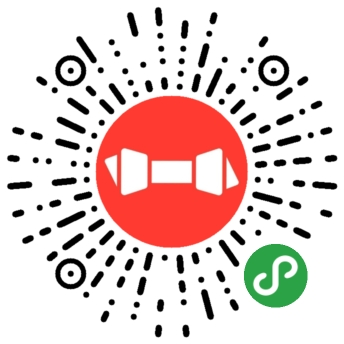
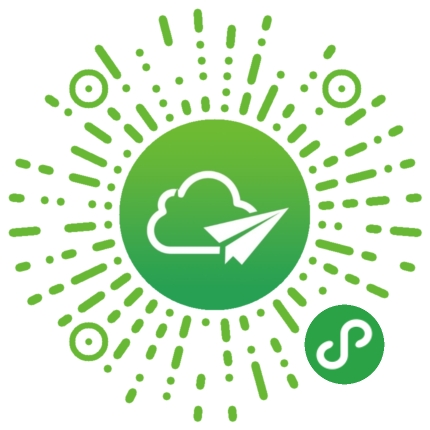
更名

diff --git a/docs/zh-cn/README.md b/docs/zh-cn/README.md
@@ -40,7 +40,7 @@
 
 
 ## 安装
-微信搜索“Bark助手” 或扫描下方小程序码<br>
+微信搜索“iGot” 或扫描下方小程序码<br>
   ![Snap](../images/gh_38cb1ca0be75_344.jpg)
 
 ## 绑定社交账号
@@ -75,12 +75,19 @@
  ![Snap](../images/bindEmail.png)
 
 
-### 授权微信
+### <del>授权微信</del>
+
+>! 该功能已下线，请使用客户端绑定微信公众号推送
+
 > 默认授权为`关闭`
 > 该模式下部分推送可能会丢失或无法送达
 
 1. 打开Bark，进入微信授权页
 2. 打开授权或取消授权
+
+### 授权微信
+
+> 需下载iGot桌面客户端  小程序内暂不支持绑定
 
 ## 使用
 > 允许用户通过简单的api接口进行推送，接口基本继承Bark内接口。对多种推送模式做了一些扩展 <br >
@@ -114,7 +121,9 @@
 
 > 扩展参数
 
-wechat： 指定微信发送 `wechat=1` <br >
+已取消
+
+<del> wechat： 指定微信发送 `wechat=1` </del>
 
 
 
@@ -132,13 +141,17 @@ wechat： 指定微信发送 `wechat=1` <br >
 
 > Q2: 推送方式可以被指定么
 
-* 仅微信推送可以通过参数指定，且第三方授权应用不被允许
+* <del>仅微信推送可以通过参数指定，且第三方授权应用不被允许</del>
+
+> 开放所有推送方式，暂时不支持指定推送方式
 
 > Q3: 推送有顺序么？可以指定么
 
-* 推送顺序为尝试`Bark`，无效转`邮件`。其中微信不参与推送顺序尝试
+* 推送顺序为尝试`Bark`，无效转`邮件`，最后是`微信`。
 
-* 暂时不可以指定，系统默认
+* <del>暂时不可以指定，系统默认</del>
+
+* 桌面客户端允许指定推送顺序，小程序暂不支持
 
 ### 授权相关
 
@@ -146,33 +159,33 @@ wechat： 指定微信发送 `wechat=1` <br >
 
 * 您可以选择对指定授权应用`关闭提醒`或`取消授权` 
 
-!> Bark助手API推送将通过Bark助手发出。 关闭Bark助手提醒，将无法收到通过上面API推送的信息
+!> API推送将通过iGot发出。 关闭iGot提醒，将无法收到通过上面API推送的信息
 
 > Q2: 关闭提醒和取消授权有什么区别
 
-* 关闭提醒：将不通过Bark或邮件推送，但仍会记录在Bark助手历史记录内。随时可以查看
+* 关闭提醒：将不通过Bark或邮件推送，但仍会记录在iGot历史记录内。随时可以查看
 
 * 取消授权：授权应用将无法向您推送信息
 
 
-# iGot 客户端 :id=iGot-client
+# iGot 桌面客户端 :id=iGot-client
 
-> iGot客户端通过下方开放接口实现
+> iGot桌面客户端通过下方开放接口实现
 
 ## 下载
 
+![Snap](../images/qqGroup.jpeg)
+
 ### Mac 客户端
 
-[ 内测中 ， 即将与大家见面 ]
+网盘下载：[点击下载](https://pan.baidu.com/s/1rAiqPOeu6-Bt_7d8qTeEtQ)
 
 参与内测请扫码加入QQ群
-
-![Snap](../images/qqGroup.jpeg)
 
 
 ### windows 客户端
 
-[ 规划中 ]
+网盘下载：[点击下载](https://pan.baidu.com/s/1n0jsnVyt9kXjBr_Sp8Ffkw)
 
 
 
@@ -212,7 +225,7 @@ wechat： 指定微信发送 `wechat=1` <br >
     appId: 'wx74db71d8a9e3b699',
     path: '/pages/bind/app',
     extraData: {
-      appName: 'Bark Helper',    // 必填，修改为您当前小程序名称
+      appName: '',    // 必填，修改为您当前小程序名称
       openid: ''    // 必填，修改为当前用户的openid
     },
     envVersion: 'release',
@@ -586,12 +599,12 @@ wechat： 指定微信发送 `wechat=1` <br >
         "automaticallyCopy": 1,  // 自动复制
         "copyText": "",  // 自动复制文本
         "title": "感谢您的试用",  //  标题
-        "content": "Bark助手是一款集app、邮箱、微信等多种途径的推送工具。支持订阅推送、api推送、手动推送；发挥您的创造力，用它来及时掌握更多信息。点击链接获取使用教程",    //  正文
+        "content": "iGot是一款集公众号、邮箱、APP提醒等多种形式的聚合推送工具，一行代码接入系统，轻松实现状态监听、信息接收。支持订阅推送、api推送、手动推送；发挥您的创造力，用它来及时掌握更多信息。点击链接获取使用教程，桌面客户端下载及更多交流可加入QQ群 「 909540238 」",    //  正文
         "url": "https://wahao.github.io/Bark-MP-helper/#/zh-cn/"  //  超链接 url
       },
       "mode": "小程序",  //  推送通过何种方式送达
       "read": true,   //  是否已读
-      "app": "Bark助手",  //  推送方主体  应用名 
+      "app": "iGot聚合推送",  //  推送方主体  应用名 
       "createTime": "2019-11-29T08:44:43.430Z"  // 推送时间
     }],
     "count": 1   //  消息条数
@@ -622,12 +635,12 @@ wechat： 指定微信发送 `wechat=1` <br >
         "automaticallyCopy": 1,  // 自动复制
         "copyText": "",  // 自动复制文本
         "title": "感谢您的试用",  //  标题
-        "content": "Bark助手是一款集app、邮箱、微信等多种途径的推送工具。支持订阅推送、api推送、手动推送；发挥您的创造力，用它来及时掌握更多信息。点击链接获取使用教程",    //  正文
+        "content": "iGot是一款集公众号、邮箱、APP提醒等多种形式的聚合推送工具，一行代码接入系统，轻松实现状态监听、信息接收。支持订阅推送、api推送、手动推送；发挥您的创造力，用它来及时掌握更多信息。点击链接获取使用教程，桌面客户端下载及更多交流可加入QQ群 「 909540238 」",    //  正文
         "url": "https://wahao.github.io/Bark-MP-helper/#/zh-cn/"  //  超链接 url
       },
       "mode": "小程序",  //  推送通过何种方式送达
       "read": true,   //  是否已读
-      "app": "Bark助手",  //  推送方主体  应用名 
+      "app": "iGot聚合推送",  //  推送方主体  应用名 
       "createTime": "2019-11-29T08:44:43.430Z"  // 推送时间
     }
   },
@@ -672,7 +685,7 @@ wechat： 指定微信发送 `wechat=1` <br >
     "relates": [{
       "id": "5de0da7aaec09e401a13e384",    //  授权关系  id
       "allow": true,   //  是否启用强推送
-      "app": "Bark助手"  // 应用名
+      "app": "iGot聚合推送"  // 应用名
     }],
     "count": 1
   },
@@ -956,6 +969,14 @@ wechat： 指定微信发送 `wechat=1` <br >
 * 支持修改和管理联系人 （回归1.0.7系列版本号升级）
 
 # 升级日志
+
+
+## v1.0.10 (2019-12-20)  🎉🎉🎉
+
+* 多端同步更名 "iGot"  🎉🎉🎉🎉
+* 发布 window & Mac 桌面客户端  🎉🎉🎉🎉
+* 桌面客户端支持绑定微信公众号推送、自定义推送顺序 ； 小程序端即将支持
+* 小程序端增加信息流查看，消息浏览一步直达
 
 ## v1.0.7.3 (2019-11-16)
 

diff --git a/docs/README.md b/docs/README.md
@@ -6,7 +6,7 @@ The applet aggregates APP, email, and WeChat, and one line of code is easily pus
 > This part of the document is for ordinary users
 
 ## install
-Wechat searches for "Bark助手" or scans the miniprogram code below<br>
+Wechat searches for "iGot" or scans the miniprogram code below<br>
   ![Snap](./images/gh_38cb1ca0be75_344.jpg)
 
 ## Binding social accounts

diff --git a/docs/cover.md b/docs/cover.md
@@ -1,7 +1,7 @@
 
 <img width="100" height="100" src="images/WechatIMG998.gif"/><br/>
 
-# Bark assistant 
+# iGot
 
 > A polymerization message push management tool
 

diff --git a/docs/zh-cn/cover.md b/docs/zh-cn/cover.md
@@ -1,7 +1,7 @@
 
 <img width="100" height="100" src="images/WechatIMG998.gif"/><br/>
 
-# Bark 助手 
+# iGot聚合推送
 
 > 一款聚合消息推送管理工具
 
